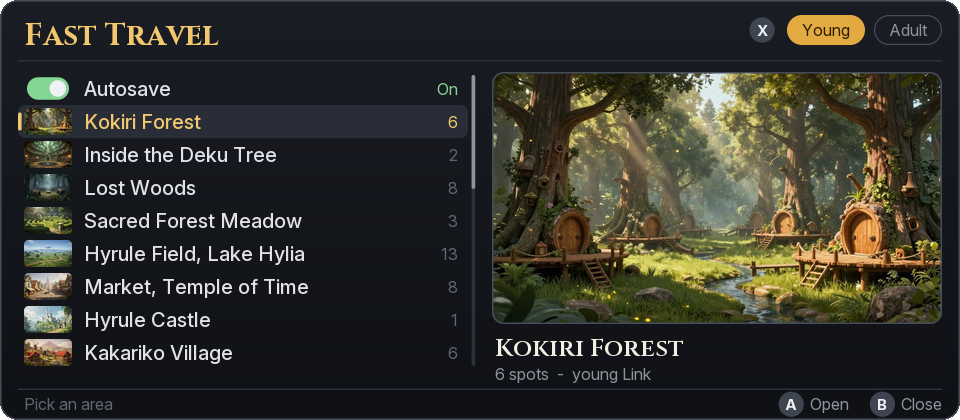
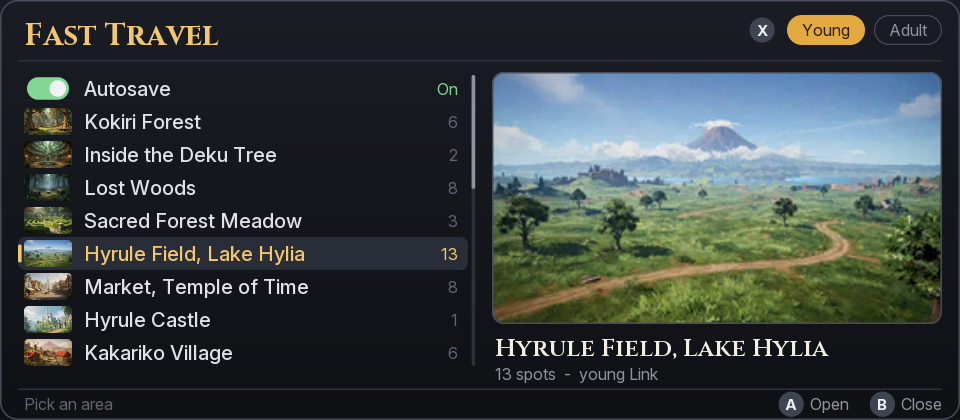
Fast Travel: built-in BC1 area pictures for the patch build
The pictures are compiled in as BC1 (DXT1) textures at 256x144, about 850 KiB for all 47, and scaled into the existing preview and thumbnail buffers when shown, so the module needs no more memory and the decoder is a few lines. The SD-card pictures.bin still works and replaces them when present. Checked on a PC with the same ui code and compiled with the patch flags; not yet run in game as a pchtxt.

Feito com Claude Code

diff --git a/fast-travel/src/program/ui/pictures.cpp b/fast-travel/src/program/ui/pictures.cpp
@@ -3,6 +3,7 @@
 #include <cstring>
 
 #include "../game.hpp"
+#include "pictures.inc"  // kPictureFile, generated by tools/make_assets.py embedded
 
 #if FAST_TRAVEL_PATCH
 // The SDK's nn::fs::MountSdCard, found from the game's tick import entry (patch/adapters.S). The game does not import it.
@@ -116,7 +117,7 @@ bool within(u64 offset, u64 bytes, s64 size) { return offset != 0 && offset + by
 
 bool fail(const char* what, long long value) {
     s_state = State::Failed;
-    WTLOG("pictures: %s (%#llx); the menu draws empty frames", what, value);
+    WTLOG("pictures: %s (%#llx); the built-in pictures are shown", what, value);
     return false;
 }
 
@@ -169,6 +170,152 @@ bool loadThumbs(int index) {
     return true;
 }
 
+// ---- Built-in pictures (kPictureFile): BC1 blocks, scaled to the preview and thumbnail sizes when shown -------------
+
+struct BuiltInHeader {
+    char magic[4];
+    u32 count;
+    u16 width, height;
+    u32 reserved;
+};
+struct BuiltInEntry {
+    char name[40];
+    u32 data, reserved[5];
+};
+static_assert(sizeof(BuiltInHeader) == 16 && sizeof(BuiltInEntry) == 64);
+
+enum class BuiltIn { Unchecked, Ready, Bad };
+BuiltIn s_builtIn = BuiltIn::Unchecked;
+int s_builtInCount = 0, s_builtInW = 0, s_builtInH = 0;
+int s_builtInThumbScale = -1;
+
+const BuiltInEntry& builtInEntry(int i) {
+    return reinterpret_cast<const BuiltInEntry*>(kPictureFile + sizeof(BuiltInHeader))[i];
+}
+
+bool builtInReady() {
+    if (s_builtIn != BuiltIn::Unchecked) { return s_builtIn == BuiltIn::Ready; }
+    s_builtIn = BuiltIn::Bad;
+    BuiltInHeader header;
+    std::memcpy(&header, kPictureFile, sizeof(header));
+    const size_t blockBytes = static_cast<size_t>(header.width / 4) * (header.height / 4) * 8;
+    if (std::memcmp(header.magic, "FTB1", 4) != 0 || header.count == 0 || header.count > kMaxPictures ||
+        header.width == 0 || header.height == 0 || header.width % 4 != 0 || header.height % 4 != 0) {
+        WTLOG("pictures: built-in picture table unusable; the menu draws empty frames");
+        return false;
+    }
+    for (u32 i = 0; i < header.count; ++i) {
+        const BuiltInEntry& e = builtInEntry(static_cast<int>(i));
+        if (!terminated(e.name) || e.data == 0 || e.data + blockBytes > sizeof(kPictureFile)) {
+            WTLOG("pictures: built-in picture %u out of range; the menu draws empty frames", i);
+            return false;
+        }
+    }
+    s_builtInCount = static_cast<int>(header.count);
+    s_builtInW = header.width;
+    s_builtInH = header.height;
+    s_builtIn = BuiltIn::Ready;
+    return true;
+}
+
+// One texel of a BC1 image (block-row major), as 8-bit RGB.
+void texel(const u8* blocks, int width, int x, int y, int rgb[3]) {
+    const u8* b = blocks + (static_cast<size_t>(y >> 2) * (width >> 2) + (x >> 2)) * 8;
+    const u32 c0 = b[0] | (b[1] << 8), c1 = b[2] | (b[3] << 8);
+    const u32 bits = b[4] | (b[5] << 8) | (b[6] << 16) | (static_cast<u32>(b[7]) << 24);
+    const u32 index = (bits >> (2 * (((y & 3) << 2) | (x & 3)))) & 3;
+    int e[2][3];
+    for (int k = 0; k < 2; ++k) {
+        const u32 c = k == 0 ? c0 : c1;
+        e[k][0] = ((c >> 11) & 31) * 255 / 31;
+        e[k][1] = ((c >> 5) & 63) * 255 / 63;
+        e[k][2] = (c & 31) * 255 / 31;
+    }
+    for (int ch = 0; ch < 3; ++ch) {
+        int v;
+        switch (index) {
+        case 0: v = e[0][ch]; break;
+        case 1: v = e[1][ch]; break;
+        case 2: v = c0 > c1 ? (2 * e[0][ch] + e[1][ch]) / 3 : (e[0][ch] + e[1][ch]) / 2; break;
+        default: v = c0 > c1 ? (e[0][ch] + 2 * e[1][ch]) / 3 : 0; break;
+        }
+        rgb[ch] = v;
+    }
+}
+
+// Scales a BC1 image into an RGB888 picture: bilinear when enlarging, the average of the covered texels when shrinking.
+void scaleInto(const u8* blocks, u8* out, int outW, int outH) {
+    const int sw = s_builtInW, sh = s_builtInH;
+    for (int oy = 0; oy < outH; ++oy) {
+        for (int ox = 0; ox < outW; ++ox) {
+            int sum[3] = {};
+            if (outW >= sw) {
+                // Source position in 1/256 texels, centres aligned.
+                int fx = ((2 * ox + 1) * sw * 128) / outW - 128, fy = ((2 * oy + 1) * sh * 128) / outH - 128;
+                fx = fx < 0 ? 0 : fx;
+                fy = fy < 0 ? 0 : fy;
+                const int x0 = fx >> 8, y0 = fy >> 8, ax = fx & 255, ay = fy & 255;
+                const int x1 = x0 + 1 < sw ? x0 + 1 : x0, y1 = y0 + 1 < sh ? y0 + 1 : y0;
+                int a[3], b[3], c[3], d[3];
+                texel(blocks, sw, x0, y0, a);
+                texel(blocks, sw, x1, y0, b);
+                texel(blocks, sw, x0, y1, c);
+                texel(blocks, sw, x1, y1, d);
+                for (int ch = 0; ch < 3; ++ch) {
+                    const int top = a[ch] * (256 - ax) + b[ch] * ax, bottom = c[ch] * (256 - ax) + d[ch] * ax;
+                    sum[ch] = (top * (256 - ay) + bottom * ay) >> 16;
+                }
+            } else {
+                const int x0 = ox * sw / outW, x1 = (ox + 1) * sw / outW, y0 = oy * sh / outH, y1 = (oy + 1) * sh / outH;
+                int n = 0;
+                for (int y = y0; y < y1; ++y) {
+                    for (int x = x0; x < x1; ++x) {
+                        int t[3];
+                        texel(blocks, sw, x, y, t);
+                        for (int ch = 0; ch < 3; ++ch) { sum[ch] += t[ch]; }
+                        ++n;
+                    }
+                }
+                for (int ch = 0; ch < 3; ++ch) { sum[ch] = n > 0 ? sum[ch] / n : 0; }
+            }
+            u8* px = out + (static_cast<size_t>(oy) * outW + ox) * 3;
+            px[0] = static_cast<u8>(sum[0]);
+            px[1] = static_cast<u8>(sum[1]);
+            px[2] = static_cast<u8>(sum[2]);
+        }
+    }
+}
+
+int findBuiltIn(const char* name) {
+    if (!builtInReady()) { return -1; }
+    for (int i = 0; i < s_builtInCount; ++i) {
+        if (sameName(builtInEntry(i).name, name)) { return i; }
+    }
+    return -1;
+}
+
+Picture builtInThumbnail(int picture, int index) {
+    if (!builtInReady() || picture < 0 || picture >= s_builtInCount) { return {}; }
+    if (s_builtInThumbScale != index) {
+        for (int i = 0; i < s_builtInCount; ++i) {
+            scaleInto(kPictureFile + builtInEntry(i).data, s_thumbs[i], kThumbW[index], kThumbH[index]);
+        }
+        s_builtInThumbScale = index;
+    }
+    return {s_thumbs[picture], kThumbW[index], kThumbH[index]};
+}
+
+Picture builtInPreview(int picture, int index, int scale) {
+    if (!builtInReady() || picture < 0 || picture >= s_builtInCount) { return {}; }
+    const int key = picture * 4 + scale;
+    const Picture shown{s_preview, kPreviewW[index], kPreviewH[index]};
+    if (s_previewKey != key) {
+        scaleInto(kPictureFile + builtInEntry(picture).data, s_preview, kPreviewW[index], kPreviewH[index]);
+        s_previewKey = key;
+    }
+    return shown;
+}
+
 }  // namespace
 
 void enable() {
@@ -176,7 +323,8 @@ void enable() {
 }
 
 int find(const char* name) {
-    if (name == nullptr || !load()) { return -1; }
+    if (name == nullptr) { return -1; }
+    if (!load()) { return findBuiltIn(name); }
     for (int i = 0; i < s_count; ++i) {
         if (sameName(s_entries[i].name, name)) { return i; }
     }
@@ -185,14 +333,17 @@ int find(const char* name) {
 
 Picture thumbnail(int picture, int scale) {
     const int index = scaleIndex(scale);
-    if (s_state != State::Ready || picture < 0 || picture >= s_count || index < 0 || !loadThumbs(index)) { return {}; }
+    if (index < 0) { return {}; }
+    if (s_state != State::Ready) { return builtInThumbnail(picture, index); }
+    if (picture < 0 || picture >= s_count || !loadThumbs(index)) { return {}; }
     return {s_thumbs[picture], kThumbW[index], kThumbH[index]};
 }
 
 Picture preview(int picture, int scale) {
     const int index = scaleIndex(scale);
-    if (s_state != State::Ready || picture < 0 || picture >= s_count || index < 0 ||
-        (s_failed[index] >> picture & 1) != 0) {
+    if (index < 0) { return {}; }
+    if (s_state != State::Ready) { return builtInPreview(picture, index, scale); }
+    if (picture < 0 || picture >= s_count || (s_failed[index] >> picture & 1) != 0) {
         return {};
     }
     const int key = picture * 4 + scale;

diff --git a/fast-travel/tools/make_assets.py b/fast-travel/tools/make_assets.py
@@ -1,8 +1,11 @@
 """Builds the Fast Travel menu's two asset files.
 
   fonts <out.inc>              anti-aliased glyph sets, as a C array the patch build compiles into the module
+  embedded <folder> <out.inc>  one picture per area, BC1-compressed, as a C array the patch build compiles into the
+                               module (the menu's built-in pictures)
   pictures <folder> <out.bin>  one picture per area (raw RGB previews and thumbnails for screen scales 3 and 2),
-                               installed on the SD card as fast-travel/pictures.bin
+                               optionally installed on the SD card as fast-travel/pictures.bin; it replaces the
+                               built-in pictures
 
 The picture for each area is <GameBancParam name>.jpg or .png in the folder; a missing picture is an error.
 
@@ -18,6 +21,13 @@ Picture file:
   data:    RGB888 previews (450x252 and 300x168) and thumbnails (48x27 and 32x18), rows top-down
 
 The previews are raw so the patch needs no picture decoder (one decoder did not fit in the game's free space).
+
+Built-in pictures (C array kPictureFile):
+  header:  'FTB1', u32 imageCount, u16 width, u16 height, u32 0
+  images:  imageCount x { char name[40]; u32 dataOff; u32 0, 0, 0, 0, 0 }
+  data:    BC1 (DXT1) blocks, (width / 4) x (height / 4) blocks of 8 bytes, rows of blocks top-down; the module
+           scales them to the preview and thumbnail sizes when it shows them. BC1 keeps the decoder to a few
+           instructions: each 4x4 block is two RGB565 colours and sixteen 2-bit indices.
 
 The sizes and ids here must match src/program/ui/assets.cpp.
 """
@@ -134,8 +144,41 @@ def build_pictures(folder: Path) -> bytes:
     return bytes(blob.data)
 
 
+EMBEDDED_SIZE = (256, 144)  # 16:9, multiple of 4; about 18 KiB per area in BC1
+
+
+def bc1_blocks(im: Image.Image) -> bytes:
+    """BC1 blocks of an RGB image (Pillow's DDS writer), without the 128-byte DDS header."""
+    import io
+    buffer = io.BytesIO()
+    im.save(buffer, "DDS", pixel_format="DXT1")
+    data = buffer.getvalue()
+    if data[:4] != b"DDS " or data[84:88] != b"DXT1":
+        raise SystemExit("Pillow did not write a DXT1 DDS file")
+    w, h = im.size
+    return data[128:128 + (w // 4) * (h // 4) * 8]
+
+
+def build_embedded_pictures(folder: Path, size: tuple[int, int] = EMBEDDED_SIZE) -> bytes:
+    names = area_names()
+    w, h = size
+    if w % 4 or h % 4:
+        raise SystemExit("the built-in picture size must be a multiple of 4")
+    blob = Blob(16 + 64 * len(names))
+    struct.pack_into("<4sIHHI", blob.data, 0, b"FTB1", len(names), w, h, 0)
+    for index, name in enumerate(names):
+        path = next((p for p in (folder / f"{name}.jpg", folder / f"{name}.png") if p.exists()), None)
+        if path is None:
+            raise SystemExit(f"no picture for {name} in {folder}")
+        if len(name) >= 40:
+            raise SystemExit(f"area name too long for the picture table: {name}")
+        im = crop_16x9(Image.open(path).convert("RGB")).resize(size, Image.LANCZOS)
+        struct.pack_into("<40s6I", blob.data, 16 + 64 * index, name.encode(), blob.put(bc1_blocks(im)), 0, 0, 0, 0, 0)
+    return bytes(blob.data)
+
+
 def as_c_array(blob: bytes, name: str) -> str:
-    lines = [f"// Generated by tools/make_assets.py fonts; {len(blob)} bytes.",
+    lines = [f"// Generated by tools/make_assets.py; {len(blob)} bytes.",
              f"alignas(4) inline constexpr unsigned char {name}[] = {{"]
     for at in range(0, len(blob), 32):
         lines.append("    " + ",".join(str(b) for b in blob[at:at + 32]) + ",")
@@ -147,6 +190,9 @@ def main() -> None:
     if len(sys.argv) == 3 and sys.argv[1] == "fonts":
         blob = build_fonts()
         Path(sys.argv[2]).write_text(as_c_array(blob, "kFontFile"), encoding="utf-8")
+    elif len(sys.argv) == 4 and sys.argv[1] == "embedded":
+        blob = build_embedded_pictures(Path(sys.argv[2]))
+        Path(sys.argv[3]).write_text(as_c_array(blob, "kPictureFile"), encoding="utf-8")
     elif len(sys.argv) == 4 and sys.argv[1] == "pictures":
         blob = build_pictures(Path(sys.argv[2]))
         Path(sys.argv[3]).write_bytes(blob)

diff --git a/fast-travel/src/program/ui/pictures.hpp b/fast-travel/src/program/ui/pictures.hpp
@@ -1,6 +1,7 @@
-// The area pictures, read from the SD card's fast-travel/pictures.bin (made by tools/make_assets.py pictures): a raw
-// RGB preview and thumbnail per area for each screen scale. The file is opened the first time the menu is
-// painted; without it the menu draws empty frames where the pictures go.
+// The area pictures. Built in: BC1-compressed pictures compiled into the module (kPictureFile, made by
+// tools/make_assets.py embedded), scaled to the preview and thumbnail sizes when shown. Optional override: the SD card's
+// fast-travel/pictures.bin (made by tools/make_assets.py pictures), raw RGB previews and thumbnails per screen scale,
+// opened the first time the menu is painted; when it is present it replaces the built-in pictures.
 #pragma once
 
 #include <cstdint>

diff --git a/fast-travel/patch/build_patch.py b/fast-travel/patch/build_patch.py
@@ -303,6 +303,8 @@ def compile_module(out: Path, tool_bin: Path, visited: bool, hooks: list[tuple[s
     import make_assets  # noqa: E402  (needs Pillow)
     fonts = make_assets.build_fonts()
     (gen / "fonts.inc").write_text(make_assets.as_c_array(fonts, "kFontFile"), encoding="utf-8")
+    pictures = make_assets.build_embedded_pictures(MOD / "assets" / "areas")
+    (gen / "pictures.inc").write_text(make_assets.as_c_array(pictures, "kPictureFile"), encoding="utf-8")
     (gen / "patch_hooks.inc").write_text(
         "".join(f"    {{{site:#x}, {bit}}},  // {name}\n" for name, site, bit in hooks), encoding="utf-8")
     (gen / "patch_adapters.inc").write_text(

diff --git a/fast-travel/README.md b/fast-travel/README.md
@@ -1,7 +1,8 @@
 # Fast Travel: picture menu (draft)
 
 This branch is a draft for discussion and is not a release. It builds samaBR85's picture menu (pull request #1) as a
-patch file and reads the area pictures from the SD card. The released versions are on the `main` branch.
+patch file, with the area pictures built in (BC1-compressed); a picture file on the SD card can replace them. The
+released versions are on the `main` branch.
 
 Fast Travel adds a menu to Ocarina of Time on Nintendo Switch 2. Pick an area and an arrival spot to warp there as
 young or adult Link.
@@ -15,13 +16,18 @@ young or adult Link.
   `tools/make_assets.py`.
 - afiaka87: the original Fast Travel mod, and on this branch the patch-file build of the picture menu, loading the
   pictures from the SD card, and the L3 + R3 chord.
+- samaBR85: the built-in BC1 pictures (`tools/make_assets.py embedded`, `src/program/ui/pictures.cpp`).
 
 ## What changed from pull request #1
 
 - The menu builds as a patch file (`.pchtxt`) instead of a subsdk module. The glyphs are generated at build time and
   compiled in.
-- The pictures are too large for a patch file (about 23 MB), so they are a separate file on the SD card. The JPEG
-  decoder is removed. The pictures are stored uncompressed and read from the SD card when the menu needs them.
+- The JPEG decoder is removed (it did not fit in the game's free space). The pictures are built in as BC1 (DXT1)
+  textures at 256x144, about 18 KiB per area and 850 KiB for all 47, and scaled to the preview and thumbnail sizes
+  when shown; the decoder is a few lines (each 4x4 block is two RGB565 colours and sixteen 2-bit indices). They use
+  the preview and thumbnail buffers the SD-card version already had, so the module needs no more memory.
+- An uncompressed picture file on the SD card (about 23 MB) still works and, when present, replaces the built-in
+  pictures, for example with a player's own screenshots.
 - The menu is drawn into one of two images in turn. Drawing into the image on screen showed a coloured flicker on
   every change.
 - The menu opens with L3 + R3 (both sticks pressed in) instead of L3 alone.
@@ -31,10 +37,10 @@ young or adult Link.
 Emulator only. The visited patch was tested on Windows in the Fritchii v5.5 emulator, started from the game list. It
 targets game version 2.0.0 (update v131072), main build ID `E0F3CCFAF50065AE4EA01EB5AEB13B1A45DA3348`.
 
-1. Build the patch and the picture file as described under Source and local build.
+1. Build the patch as described under Source and local build.
 2. Close the game. In the emulator, right-click it and choose **Open Mod Data Location**. Copy the
    `fast-travel-patch` output folder there as `Fast Travel (Visited Patch)`.
-3. Copy the picture file by hand to `fast-travel/pictures.bin` on the SD card. The mod does not install it. In an
+3. Optional: to replace the built-in pictures, copy a picture file to `fast-travel/pictures.bin` on the SD card. In an
    emulator the SD card is the `sdmc` folder in the emulator's data folder; Lichii and Fritchii on Windows use
    `%APPDATA%\eden\sdmc\fast-travel\pictures.bin`. On a Switch 2 it is `fast-travel/pictures.bin` at the root of the
    microSD card (not tested on hardware).
@@ -42,7 +48,7 @@ targets game version 2.0.0 (update v131072), main build ID `E0F3CCFAF50065AE4EA0
    for this setup. The patch and those mods can use the same game hooks.
 5. Start the game from the game list. Press L3 and R3 together after loading a save.
 
-Without the picture file the menu still works and shows empty picture frames.
+Without the picture file the menu shows the built-in pictures.
 
 ## Using the menu
 
@@ -89,9 +95,10 @@ uv run --no-project --with capstone --with pyelftools --with lz4 --with numpy --
 uv run --no-project --with pillow python tools/make_assets.py pictures assets/areas <local-output-directory>/pictures.bin
 ```
 
-The first command writes `fast-travel-patch/exefs/fast-travel-patch.pchtxt` and a separate IPS32 fallback. Use the
-pchtxt for installation. `--all-places` builds the all-places version (not tested on this branch). The second command
-writes the picture file.
+The first command writes `fast-travel-patch/exefs/fast-travel-patch.pchtxt` and a separate IPS32 fallback, with the
+built-in pictures from `assets/areas/` (`tools/make_assets.py embedded`). Use the pchtxt for installation.
+`--all-places` builds the all-places version (not tested on this branch). The second command writes the optional
+picture file for the SD card.
 
 Tested files (SHA-256):
 
@@ -102,6 +109,9 @@ Tested files (SHA-256):
 
 - The subsdk module build and `tools/preview.cpp` are not updated for this branch. They still expect the picture and
   glyph file and the JPEG decoder from pull request #1.
-- Moving to a new area reads that area's large picture from the SD card.
+- With the SD-card picture file, moving to a new area reads that area's large picture from the SD card. The built-in
+  pictures are decoded from memory instead (the thumbnails once, the preview on each area change).
+- The built-in pictures were checked on a PC (the same `src/program/ui/` code drawing the panel) and compiled with the
+  patch's compiler flags, but not yet built into a pchtxt and run in the game.
 
 The source is MIT licensed. See `NOTICE.txt` for credits and the legacy module dependency.
